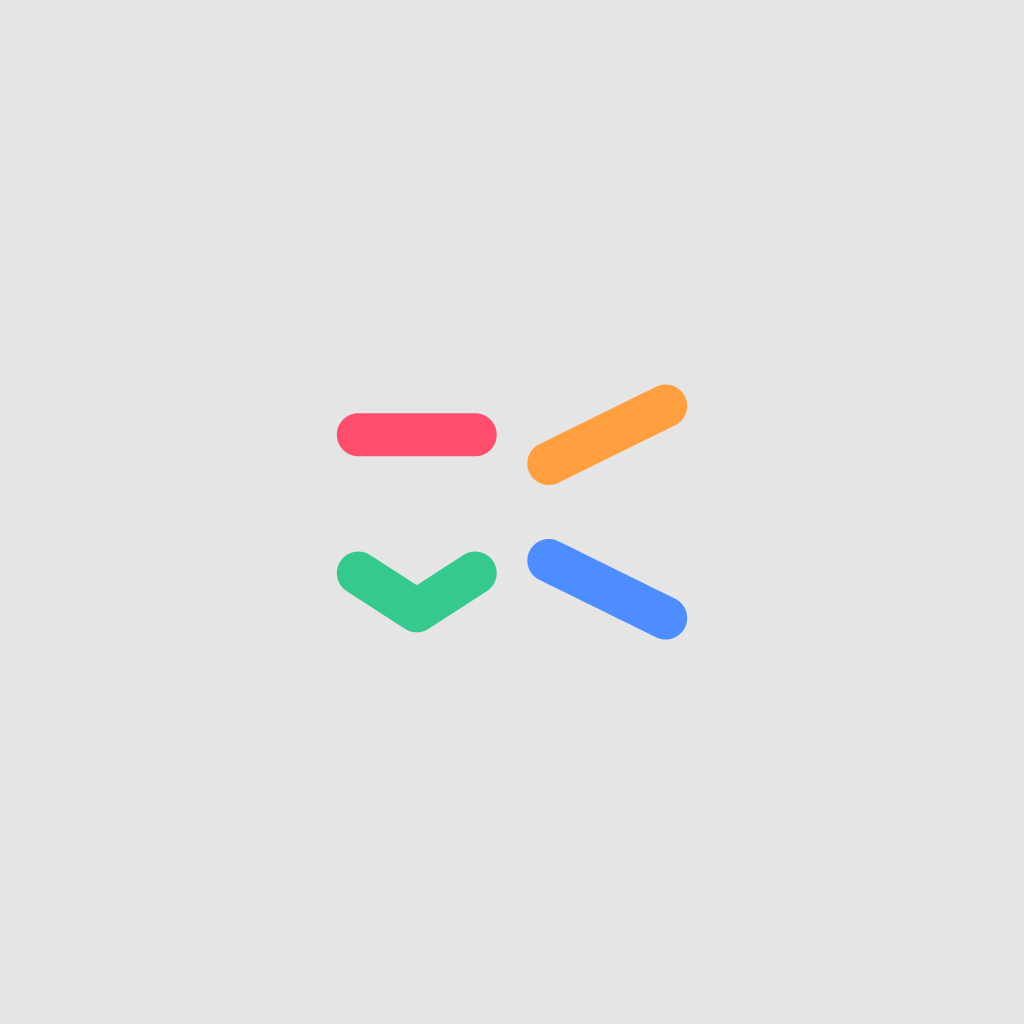
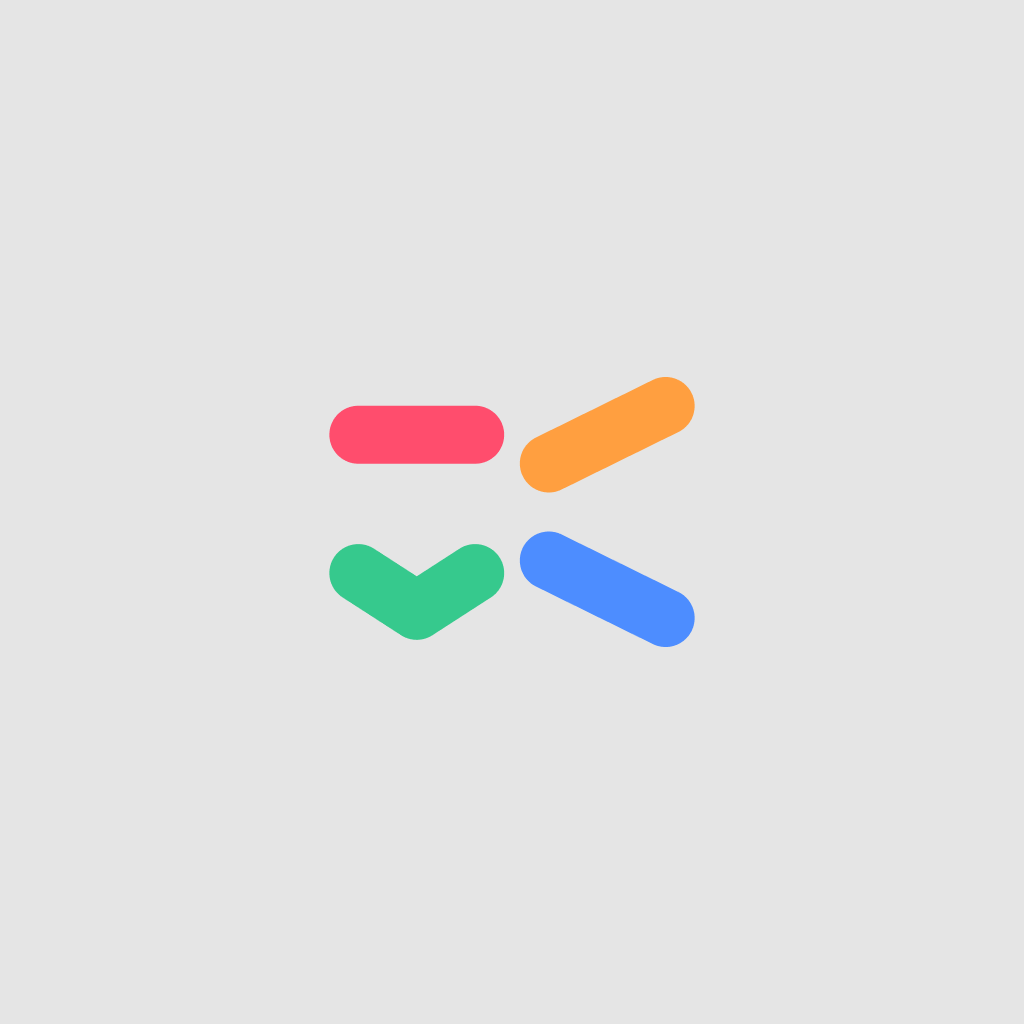
fix(game): 아이콘·파비콘 마크를 스플래시와 같은 두께로 통일 (resize 방식)
원인: 아이콘 리밸런스 때 rescale을 써서 마크 획이 58→26으로 얇아짐.
스플래시는 처음부터 resize(획 58 유지)라 두꺼웠고, 그래서 아이콘↔스플래시 불일치.
- 아이콘·전경 마크를 첫 스플래시와 동일 resize 방식(획 58)으로 재생성 → 두껍게
- splash.png는 원래부터 이 두께라 변화 없음
- 파비콘도 동일 아이콘 이미지(PNG)로 교체, SVG 파비콘 제거(정확 일치)

Changed region(s): [[0.3125, 0.3438, 0.6875, 0.6562]]

diff --git a/pwa/game.html b/pwa/game.html
@@ -16,8 +16,7 @@
     <meta name="apple-mobile-web-app-status-bar-style" content="default" />
     <meta name="apple-mobile-web-app-title" content="성조게임" />
 
-    <!-- 파비콘·홈스크린 아이콘 — 앱 아이콘(4성 마크)과 동일 디자인 -->
-    <link rel="icon" type="image/svg+xml" href="/favicon-game.svg" />
+    <!-- 파비콘·홈스크린 아이콘 — 앱 아이콘과 동일 이미지(정확히 일치) -->
     <link rel="icon" type="image/png" href="/favicon-game.png" />
     <link rel="apple-touch-icon" href="/favicon-game.png" />
 
